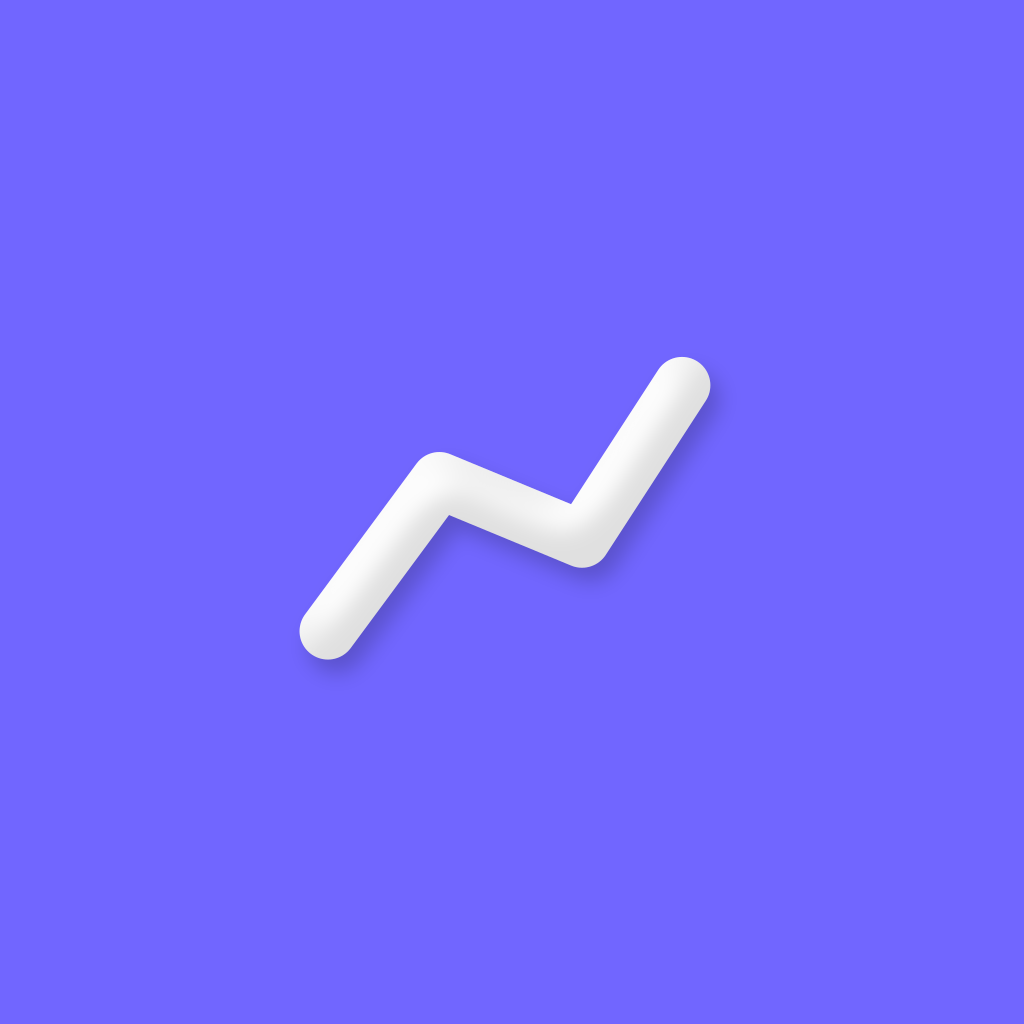
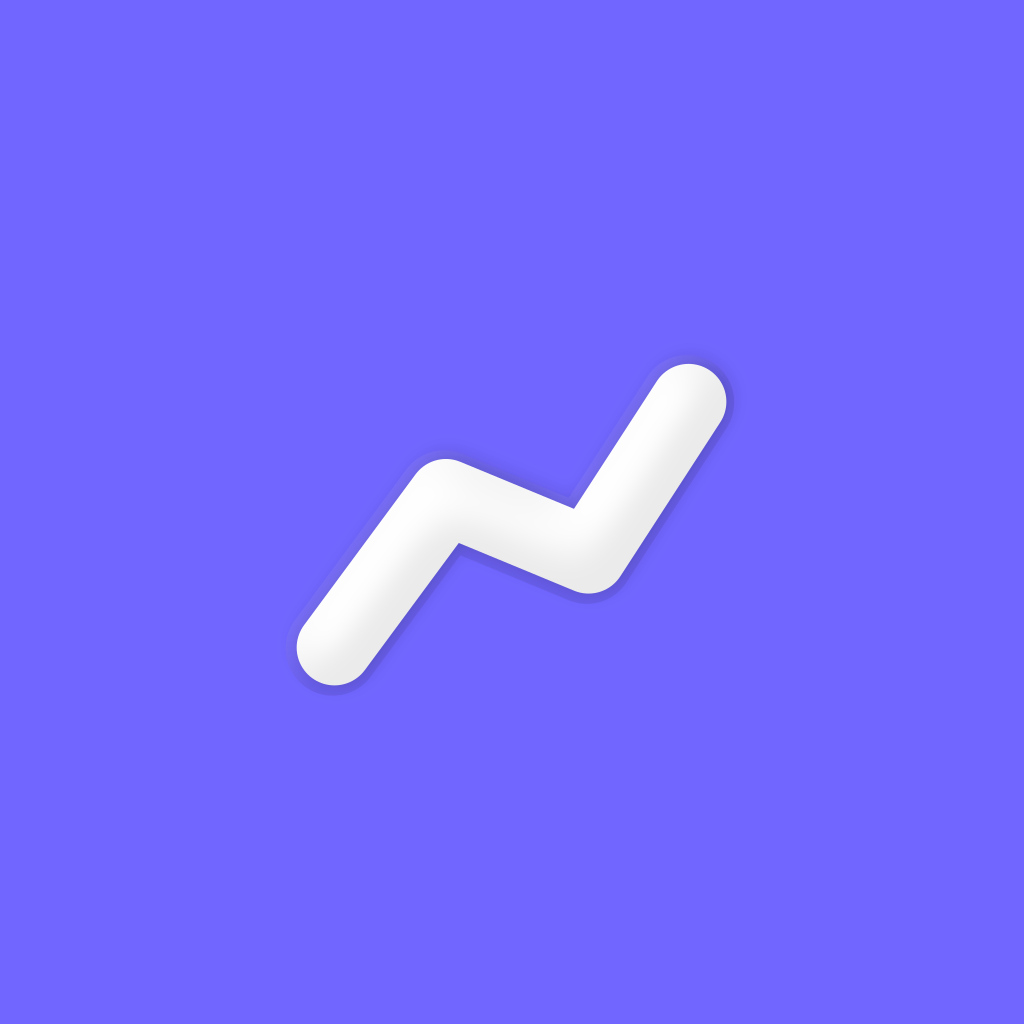
Styling improvements

diff --git a/src/GoalGraph.tsx b/src/GoalGraph.tsx
@@ -149,15 +149,15 @@ const GoalGraph = ({ route }: { route: any }) => {
     throw new Error("Invalid graph type");
   }
 
-  const graphLabel = (gType: any) => {;
+  const graphLabel = (gType: any) => {
     if (gType === "box") {
-      return (<View style={{flexDirection: 'row', alignItems: 'center'}}><AntDesign name="barchart" size={24} color="black" /><Text>Box</Text></View>);
+      return (<View style={{flexDirection: 'row', alignItems: 'center'}}><AntDesign name="barchart" size={24} color={theme.colors.onSurfaceVariant} /><Text style={{ color: theme.colors.onSurfaceVariant }}>Box</Text></View>);
     } else if (gType === "bar-count") {
-      return (<View style={{flexDirection: 'row', alignItems: 'center'}}><AntDesign name="barschart" size={24} color="black" /><Text>Count</Text></View>);
+      return (<View style={{flexDirection: 'row', alignItems: 'center'}}><AntDesign name="barschart" size={24} color={theme.colors.onSurfaceVariant} /><Text style={{ color: theme.colors.onSurfaceVariant }}>Count</Text></View>);
     } else if (gType === "bar-sum") {
-      return (<View style={{flexDirection: 'row', alignItems: 'center'}}><AntDesign name="barschart" size={24} color="black" /><Text>Sum</Text></View>);
+      return (<View style={{flexDirection: 'row', alignItems: 'center'}}><AntDesign name="barschart" size={24} color={theme.colors.onSurfaceVariant} /><Text style={{ color: theme.colors.onSurfaceVariant }}>Sum</Text></View>);
     } else if (gType === "line-mean") {
-      return (<View style={{flexDirection: 'row', alignItems: 'center'}}><AntDesign name="linechart" size={24} color="black" /><Text>Mean</Text></View>);
+      return (<View style={{flexDirection: 'row', alignItems: 'center'}}><AntDesign name="linechart" size={24} color={theme.colors.onSurfaceVariant} /><Text style={{ color: theme.colors.onSurfaceVariant }}>Mean</Text></View>);
     }
   }
 
@@ -173,7 +173,7 @@ const GoalGraph = ({ route }: { route: any }) => {
     var viewport : {x: [number, number]} = {x: [t0view, t1]};
     if (graphType === "box") {
       const [ymin, ymax] = [Math.min(...binStats.map((b) => b.q0)), Math.max(...binStats.map((b) => b.q4))];
-      domain.y = [ymin, ymax];
+      domain.y = [ymin + (ymax - ymin) * 0.05, ymax + (ymax - ymin) * 0.05];
     } else if (graphType === "bar-count") {
       domain.y = [0, Math.max(...binStats.map((b) => b.count))];
     } else if (graphType === "bar-sum") {
@@ -286,7 +286,7 @@ const GoalGraph = ({ route }: { route: any }) => {
           anchor={
             <Button compact={true} onPress={() => setBinMenuVisible(true)} style={{ marginRight: 8 }}>
               <View style={{flexDirection: 'row', alignItems: 'center'}}>
-                <Text style={{ marginRight: 10 }}>{binningLabels[binning]}</Text>
+                <Text style={{ marginRight: 10, color: theme.colors.onSurfaceVariant }}>{binningLabels[binning]}</Text>
                 <AntDesign name="down" size={16} color={theme.colors.onSurfaceVariant} />
       </View>
             </Button>
@@ -313,7 +313,7 @@ const GoalGraph = ({ route }: { route: any }) => {
             anchor={
               <Button compact={true} onPress={() => setSubUnitMenuVisible(true)} style={{ marginRight: 8 }}>
                 <View style={{flexDirection: 'row', alignItems: 'center'}}>
-                  <Text style={{ marginRight: 10 }}>{subUnitName}</Text>
+                  <Text style={{ marginRight: 10, color: theme.colors.onSurfaceVariant }}>{subUnitName}</Text>
                   <AntDesign name="down" size={16} color={theme.colors.onSurfaceVariant} />
                 </View>
               </Button>
@@ -340,16 +340,15 @@ const GoalGraph = ({ route }: { route: any }) => {
             anchor={
               <Button compact={true} onPress={() => setTagsMenuVisible(true)} style={{ marginRight: 8 }}>
                 <View style={{flexDirection: 'row', alignItems: 'center'}}>
-                  <Text style={{ marginRight: 10 }}>
+                  <Text style={{ marginRight: 10, color: theme.colors.onSurfaceVariant }}>
                     Tags
                     {(() => {
                       const yesTags = tags.filter(t => t.state === 'yes').map(t => t.name);
                       const noTags = tags.filter(t => t.state === 'no').map(t => t.name);
-                      if (yesTags.length === 0 && noTags.length === 0) return '';
-                      let summary = '';
-                      if (yesTags.length > 0) summary += ` [+${yesTags.join(', ')}]`;
-                      if (noTags.length > 0) summary += ` [-${noTags.join(', ')}]`;
-                      return summary;
+                      if (yesTags.length === 0 && noTags.length === 0) 
+                        return '';
+                      else
+                        return '*';
                     })()}
                   </Text>
                   <AntDesign name="down" size={16} color={theme.colors.onSurfaceVariant} />

diff --git a/src/GoalData.tsx b/src/GoalData.tsx
@@ -17,7 +17,7 @@ type GoalDataProps = {
 };
 
 export const formatDate = (date: Date) => {
-  return date.toLocaleDateString("cs-CZ", {year: "numeric",month: "short",day: "numeric",hour: "2-digit",minute: "2-digit"});
+  return date.toLocaleDateString("cs-CZ", {year: "numeric",month: "short",day: "numeric"});
   // return date.toUTCString();
 };
 
@@ -73,14 +73,14 @@ export const renderValue = (value: any, unit: Unit) => {
   }
 };
 
-const renderTags = (tags: string[]) => {
+const renderTags = (tags: string[], theme: any) => {
   if (tags.length === 0) return null;
 
   return (
     <View style={styles.tagsContainer}>
       {tags.map((tag, index) => (
-        <View key={index} style={styles.tag}>
-          <Text style={styles.tagText}>{tag}</Text>
+        <View key={index} style={[styles.tag, { backgroundColor: theme.colors.surfaceVariant, borderColor: theme.colors.onSurfaceVariant }]}>
+          <Text style={[styles.tagText, { color: theme.colors.onSurfaceVariant }]}>{tag}</Text>
         </View>
       ))}
     </View>
@@ -99,9 +99,6 @@ const GoalData = ({ navigation, route }: GoalDataProps) => {
 
   return (
     <SafeAreaView style={styles.container}>
-      <View style={styles.sectionHeader}>
-        <Text style={[styles.sectionTitle, { color: theme.colors.onSurface }]}>Data Points ({goal.dataPoints.length})</Text>
-      </View>
       <ScrollView style={styles.scrollView}>
         <DataTable>
           <DataTable.Header>
@@ -117,7 +114,7 @@ const GoalData = ({ navigation, route }: GoalDataProps) => {
             >
               <DataTable.Row>
                 <DataTable.Cell>{formatDate(new Date(dataPoint.time))}</DataTable.Cell>
-                <DataTable.Cell>{renderTags(dataPoint.tags)}</DataTable.Cell>
+                <DataTable.Cell>{renderTags(dataPoint.tags, theme)}</DataTable.Cell>
                 <DataTable.Cell numeric>{renderValue(dataPoint.value, goal.unit)}</DataTable.Cell>
               </DataTable.Row>
             </TouchableOpacity>
@@ -199,9 +196,7 @@ const styles = StyleSheet.create({
     gap: 4,
   },
   tag: {
-    backgroundColor: '#f0f0f0',
     borderWidth: 1,
-    borderColor: '#d0d0d0',
     borderRadius: 12,
     paddingHorizontal: 6,
     paddingVertical: 2,

diff --git a/src/GoalSummary.tsx b/src/GoalSummary.tsx
@@ -27,7 +27,7 @@ const GoalSummary = ({ navigation, route }: { navigation: any, route: any }) => 
 
 
   return (
-    <SafeAreaView style={[styles.container, { backgroundColor: theme.colors.surfaceVariant }]}>    
+    <SafeAreaView style={[styles.container]}>    
       <View style={[styles.goalInfo, { backgroundColor: theme.colors.surface }]}>  
         <Text style={[styles.goalDescription, { color: theme.colors.onSurface, textAlign: 'center' }]}>{goal.description}</Text>
       </View>
@@ -48,6 +48,7 @@ const GoalSummary = ({ navigation, route }: { navigation: any, route: any }) => 
           <Text style={[styles.statsLabel, { color: theme.colors.onSurfaceVariant }]}>Last</Text>
         </View>
       </View>
+      <Divider />
       <FAB
         icon="plus"
         style={[styles.fab, { backgroundColor: theme.colors.primary }]}
@@ -64,7 +65,6 @@ const styles = StyleSheet.create({
   },
   goalInfo: {
     padding: 15,
-    borderRadius: 10,
   },
   goalDescription: {
     fontSize: 16,

diff --git a/app.config.js b/app.config.js
@@ -16,14 +16,22 @@ const getUniqueIdentifier = () => {
   
   const getAppName = () => {
     if (IS_DEV) {
-      return 'Workout Tracker (Dev)';
+      return 'Workouts (Dev)';
     }
   
     if (IS_PREVIEW) {
-      return 'Workout Tracker (Preview)';
+      return 'Workouts';
     }
   
-    return 'Workout Tracker';
+    return 'Workouts';
+  };
+
+  const getIconBackground = () => {
+    if (IS_DEV) {
+      return '#4d4d4d';
+    }
+
+    return "#7166ff";
   };
   
 
@@ -37,6 +45,10 @@ const getUniqueIdentifier = () => {
     android: {
       ...config.android,
       package: getUniqueIdentifier(),
+      adaptiveIcon: {
+        ...config.android.adaptiveIcon,
+        backgroundColor: getIconBackground(),
+      },
     },
   });
   

diff --git a/src/Goals.tsx b/src/Goals.tsx
@@ -118,8 +118,6 @@ const styles = StyleSheet.create({
   },
   goalCard: {
     padding: 6,
-    borderBottomWidth: 1,
-    borderBottomColor: '#e0e0e0',
   },
   goalTitle: {
     fontSize: 16,

diff --git a/README.md b/README.md
@@ -23,7 +23,8 @@ In order to make this app a full-featured management app for workout data, the f
     * [ ] Allow editing composite units
     * [ ] Allow adding graphs
     * [ ] Allow adding summary values
-    * [ ] Fix duplicating points, add an alert on duplication
+    * [x] Fix duplicating points
+    * [ ] add an alert on duplication
   * [ ] Data Series screen
     * [ ] Compact display
   * [ ] Goal Graphs
